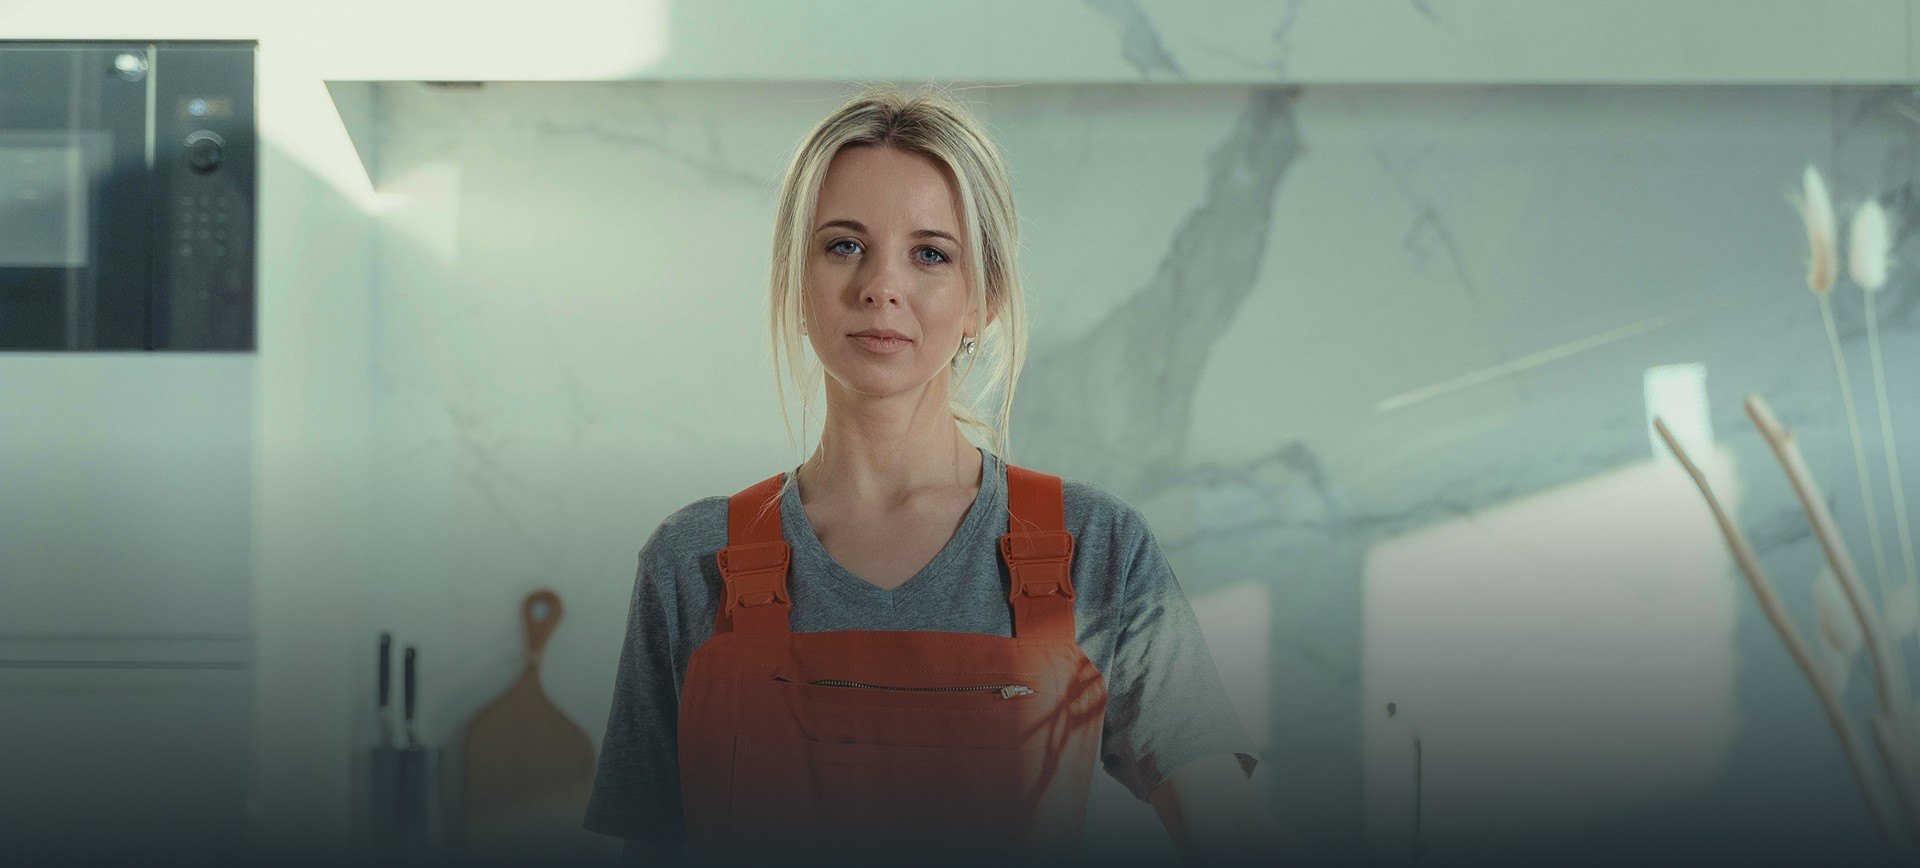
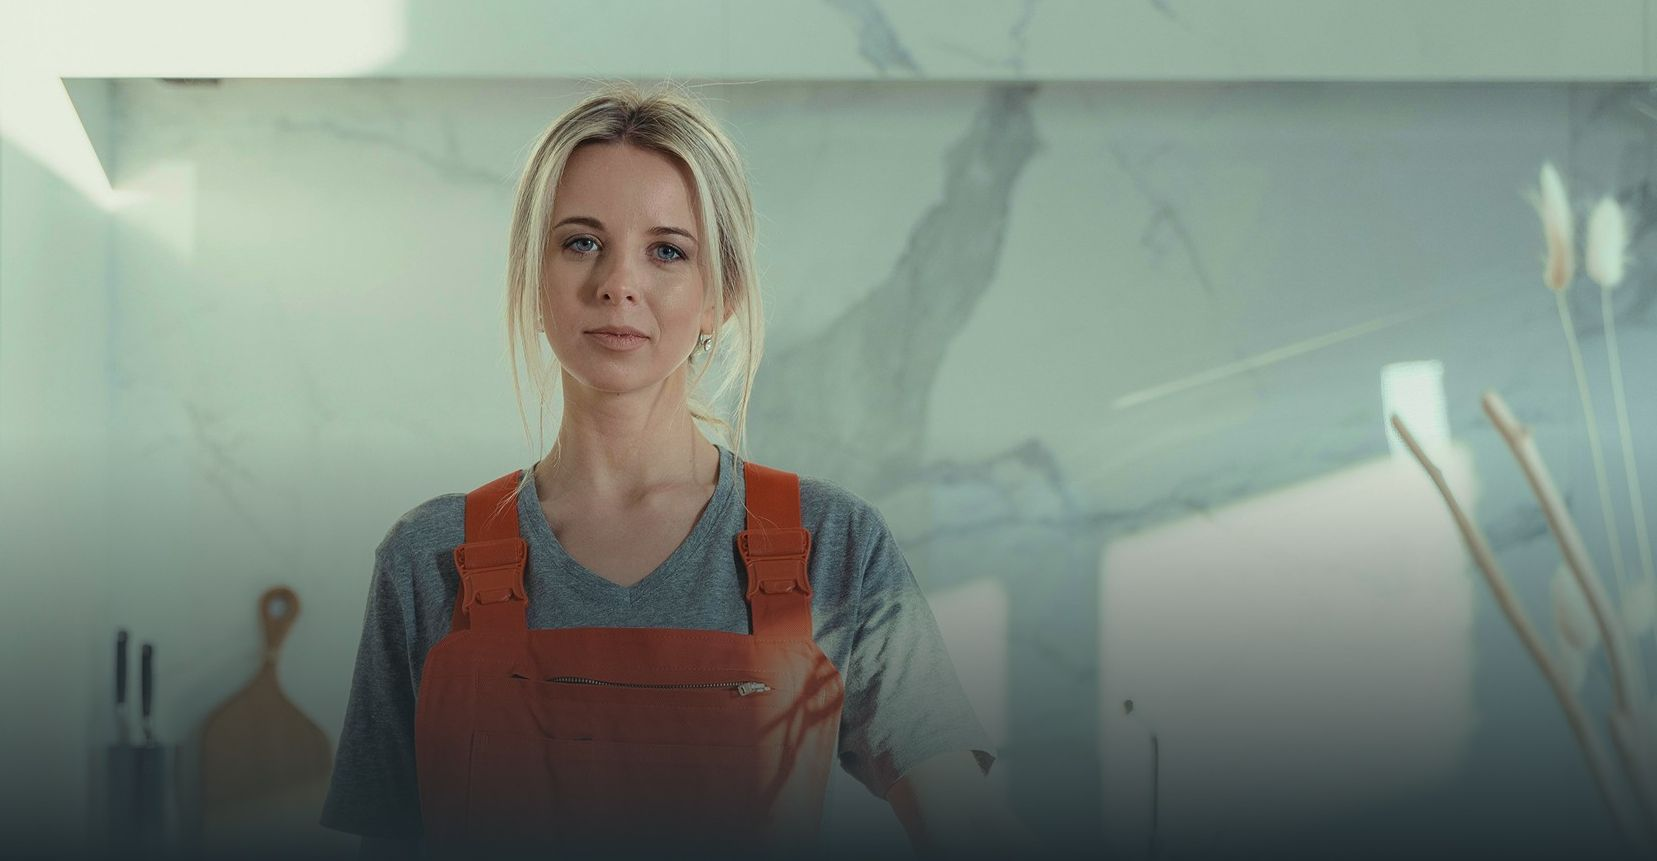
feat: Introduce Get Quote form, Header, and application layout, utilizing new Checkbox and Sonner UI components with the `sonner` dependency.

diff --git a/components/GetQuote.tsx b/components/GetQuote.tsx
@@ -1,0 +1,176 @@
+"use client"
+import { Checkbox } from "@/components/ui/checkbox"
+import {
+  Field,
+  FieldGroup,
+  FieldLabel,
+  FieldLegend,
+  FieldSet,
+} from "@/components/ui/field"
+import { Input } from "./ui/input"
+import { Button } from "./ui/button"
+import { useState } from "react"
+import { toast } from "sonner"
+
+const GetQuote = () => {
+  const [regularCleaning, setRegularCleaning] = useState<boolean>(false)
+  const [moveInMoveOut, setMoveInMoveOut] = useState<boolean>(false)
+  const [ecologicalCleaning, setEcologicalCleaning] = useState<boolean>(false)
+  const [deepCleaning, setDeepCleaning] = useState<boolean>(false)
+  const [removalAndStorage, setRemovalAndStorage] = useState<boolean>(false)
+  const [cleaningAfterRenovation, setCleaningAfterRenovation] =
+    useState<boolean>(false)
+  const handleSubmit = (e: React.FormEvent<HTMLFormElement>) => {
+    e.preventDefault()
+    const formData = new FormData(e.currentTarget)
+    const name = formData.get("name")
+    const phone = formData.get("phone")
+    const email = formData.get("email")
+
+    toast("Zapytanie o wycenę zostało wysłane!", {
+      description: `Wysłano dane dla: ${name}. Skontaktujemy się z Tobą pod numerem ${phone} lub adresem ${email}.
+      ${regularCleaning ? "Regularne czyszczenie: Tak" : ""}\n
+      ${moveInMoveOut ? "Wprowadzanie się / Wyprowadzanie się: Tak" : ""}\n
+      ${ecologicalCleaning ? "Ekologiczne czyszczenie: Tak" : ""}\n
+      ${deepCleaning ? "Głębokie czyszczenie: Tak" : ""}\n
+      ${removalAndStorage ? "Usuwanie i przechowywanie: Tak" : ""}\n
+      ${cleaningAfterRenovation ? "Sprzątanie po remoncie: Tak" : ""}\n
+      `,
+    })
+    e.currentTarget.reset()
+    setRegularCleaning(false)
+    setMoveInMoveOut(false)
+    setEcologicalCleaning(false)
+    setDeepCleaning(false)
+    setRemovalAndStorage(false)
+    setCleaningAfterRenovation(false)
+  }
+  return (
+    <div className='w-full max-w-[400px] absolute top-0 lg:top-1/2 lg:-translate-y-1/2 lg:right-10 right-0 flex flex-col items-start justify-center p-4 text-center bg-background shadow-2xl rounded-lg gap-4'>
+      <h2 className='text-2xl font-bold mb-4'>Uzyskaj bezpłatną wycenę</h2>
+      <form
+        onSubmit={handleSubmit}
+        className='w-full flex flex-col items-start gap-4'
+      >
+        <Input type='text' name='name' placeholder='Imię i Nazwisko' required />
+        <Input type='text' name='phone' placeholder='Numer Telefonu' required />
+        <Input type='text' name='email' placeholder='Adres e-mail' required />
+        <div className='w-full flex flex-col gap-4'>
+          <FieldSet>
+            <FieldLegend
+              variant='label'
+              className='text-left text-xl font-semibold mb-2'
+            >
+              Opcje serwisu *
+            </FieldLegend>
+
+            <FieldGroup className='w-full flex flex-row gap-4'>
+              <div className='w-full flex flex-col gap-4'>
+                <Field orientation='horizontal'>
+                  <Checkbox
+                    id='regular-cleaning'
+                    name='regular-cleaning'
+                    defaultChecked={regularCleaning}
+                    checked={regularCleaning}
+                    onCheckedChange={() => setRegularCleaning(!regularCleaning)}
+                  />
+                  <FieldLabel
+                    htmlFor='regular-cleaning'
+                    className='font-normal'
+                  >
+                    Regularne czyszczenie
+                  </FieldLabel>
+                </Field>
+                <Field orientation='horizontal'>
+                  <Checkbox
+                    id='move-in-move-out'
+                    name='move-in-move-out'
+                    defaultChecked={moveInMoveOut}
+                    checked={moveInMoveOut}
+                    onCheckedChange={() => setMoveInMoveOut(!moveInMoveOut)}
+                  />
+                  <FieldLabel
+                    htmlFor='move-in-move-out'
+                    className='text-left font-normal'
+                  >
+                    Wprowadzanie się / Wyprowadzanie się
+                  </FieldLabel>
+                </Field>
+                <Field orientation='horizontal'>
+                  <Checkbox
+                    id='ecological-cleaning'
+                    name='ecological-cleaning'
+                    defaultChecked={ecologicalCleaning}
+                    checked={ecologicalCleaning}
+                    onCheckedChange={() =>
+                      setEcologicalCleaning(!ecologicalCleaning)
+                    }
+                  />
+                  <FieldLabel
+                    htmlFor='ecological-cleaning'
+                    className='font-normal'
+                  >
+                    Ekologiczne czyszczenie
+                  </FieldLabel>
+                </Field>
+              </div>
+              <div className='w-full flex flex-col gap-4'>
+                <Field orientation='horizontal'>
+                  <Checkbox
+                    id='deep-cleaning'
+                    name='deep-cleaning'
+                    defaultChecked={deepCleaning}
+                    checked={deepCleaning}
+                    onCheckedChange={() => setDeepCleaning(!deepCleaning)}
+                  />
+                  <FieldLabel htmlFor='deep-cleaning' className='font-normal'>
+                    Głębokie czyszczenie
+                  </FieldLabel>
+                </Field>
+                <Field orientation='horizontal'>
+                  <Checkbox
+                    id='removal-and-storage'
+                    name='removal-and-storage'
+                    defaultChecked={removalAndStorage}
+                    checked={removalAndStorage}
+                    onCheckedChange={() =>
+                      setRemovalAndStorage(!removalAndStorage)
+                    }
+                  />
+                  <FieldLabel
+                    htmlFor='removal-and-storage'
+                    className='text-left font-normal'
+                  >
+                    Usuwanie i przechowywanie
+                  </FieldLabel>
+                </Field>
+                <Field orientation='horizontal'>
+                  <Checkbox
+                    id='cleaning-after-renovation'
+                    name='cleaning-after-renovation'
+                    defaultChecked={cleaningAfterRenovation}
+                    checked={cleaningAfterRenovation}
+                    onCheckedChange={() =>
+                      setCleaningAfterRenovation(!cleaningAfterRenovation)
+                    }
+                  />
+                  <FieldLabel
+                    htmlFor='cleaning-after-renovation'
+                    className='font-normal'
+                  >
+                    Sprzątanie po remoncie
+                  </FieldLabel>
+                </Field>
+              </div>
+            </FieldGroup>
+          </FieldSet>
+        </div>
+        <Button type='submit' className='w-fit px-6 p-2 cursor-pointer'>
+          Wyślij zapytanie
+        </Button>
+      </form>
+    </div>
+  )
+}
+
+export default GetQuote

diff --git a/components/Header.tsx b/components/Header.tsx
@@ -1,32 +1,36 @@
 import Link from "next/link"
 import { Button } from "./ui/button"
 import Image from "next/image"
+import { BrushCleaning } from "lucide-react"
+import GetQuote from "./GetQuote"
+
 
 const Header = () => {
   return (
-    <div className='relative w-full h-[280px] sm:h-[450px] md:h-[550px] lg:h-[700px]  overflow-hidden '>
+    <div className='relative w-full h-[620px]   overflow-hidden '>
       <Image
         src="/banner-img.jpg"
         alt="Header Background"
         fill
-        className='absolute inset-0 w-full h-full object-cover object-bottom'
+        className='absolute inset-0 w-full h-full object-cover object-center'
       />
      
-      <div className='absolute bottom-0 left-0  flex flex-col items-center justify-center px-4 text-center'>
-        <h1 className='text-xl md:text-3xl lg:text-5xl font-extrabold text-white mb-6 max-w-5xl tracking-tight'>
+      <div className='absolute bottom-0 left-0  flex flex-col items-center justify-center gap-4 text-center mb-8'>
+        <h1 className='text-xl md:text-2xl lg:text-3xl font-semibold text-white max-w-3xl tracking-tight'>
          Zaufane usługi sprzątania domów
           
         </h1>
-        <p className='text-base md:text-lg lg:text-xl text-white/90 mb-8 max-w-2xl leading-relaxed'>
+        <p className='text-base md:text-lg lg:text-xl text-white/90   w-full md:w-2xl lg:w-3xl leading-relaxed'>
          Ciesz się nieskazitelnym domem dzięki naszym profesjonalnym usługom sprzątania. Zarezerwuj już teraz, aby cieszyć się czystszą i świeższą przestrzenią życiową.
         </p>
         <Button
          asChild
-          className='text-lg md:text-xl lg:text-2xl px-4 py-2 md:py-6 md:px-8 lg:px-12 rounded-none font-bold uppercase tracking-wider cursor-pointer'
+          className='text-lg md:text-xl lg:text-2xl px-4 py-2 md:py-6 md:px-8 lg:px-12  font-bold uppercase tracking-wider cursor-pointer '
         >
-          <Link href='/reservation'>Usługa Rezerwacji </Link>
+          <Link href='/reservation'>Zamów teraz <BrushCleaning className="ml-2 size-6" /></Link>
         </Button>
       </div>
+      <GetQuote/>
     </div>
   )
 }

diff --git a/components/ui/checkbox.tsx b/components/ui/checkbox.tsx
@@ -1,0 +1,33 @@
+"use client"
+
+import * as React from "react"
+import { Checkbox as CheckboxPrimitive } from "radix-ui"
+
+import { cn } from "@/lib/utils"
+import { CheckIcon } from "lucide-react"
+
+function Checkbox({
+  className,
+  ...props
+}: React.ComponentProps<typeof CheckboxPrimitive.Root>) {
+  return (
+    <CheckboxPrimitive.Root
+      data-slot="checkbox"
+      className={cn(
+        "border-input dark:bg-input/30 data-checked:bg-primary data-checked:text-primary-foreground dark:data-checked:bg-primary data-checked:border-primary aria-invalid:aria-checked:border-primary aria-invalid:border-destructive dark:aria-invalid:border-destructive/50 focus-visible:border-ring focus-visible:ring-ring/50 aria-invalid:ring-destructive/20 dark:aria-invalid:ring-destructive/40 flex size-4 items-center justify-center rounded-[4px] border transition-colors group-has-disabled/field:opacity-50 focus-visible:ring-3 aria-invalid:ring-3 peer relative shrink-0 outline-none after:absolute after:-inset-x-3 after:-inset-y-2 disabled:cursor-not-allowed disabled:opacity-50",
+        className
+      )}
+      {...props}
+    >
+      <CheckboxPrimitive.Indicator
+        data-slot="checkbox-indicator"
+        className="[&>svg]:size-3.5 grid place-content-center text-current transition-none"
+      >
+        <CheckIcon
+        />
+      </CheckboxPrimitive.Indicator>
+    </CheckboxPrimitive.Root>
+  )
+}
+
+export { Checkbox }

diff --git a/components/ui/sonner.tsx b/components/ui/sonner.tsx
@@ -1,0 +1,49 @@
+"use client"
+
+import { useTheme } from "next-themes"
+import { Toaster as Sonner, type ToasterProps } from "sonner"
+import { CircleCheckIcon, InfoIcon, TriangleAlertIcon, OctagonXIcon, Loader2Icon } from "lucide-react"
+
+const Toaster = ({ ...props }: ToasterProps) => {
+  const { theme = "system" } = useTheme()
+
+  return (
+    <Sonner
+      theme={theme as ToasterProps["theme"]}
+      className="toaster group"
+      icons={{
+        success: (
+          <CircleCheckIcon className="size-4" />
+        ),
+        info: (
+          <InfoIcon className="size-4" />
+        ),
+        warning: (
+          <TriangleAlertIcon className="size-4" />
+        ),
+        error: (
+          <OctagonXIcon className="size-4" />
+        ),
+        loading: (
+          <Loader2Icon className="size-4 animate-spin" />
+        ),
+      }}
+      style={
+        {
+          "--normal-bg": "var(--popover)",
+          "--normal-text": "var(--popover-foreground)",
+          "--normal-border": "var(--border)",
+          "--border-radius": "var(--radius)",
+        } as React.CSSProperties
+      }
+      toastOptions={{
+        classNames: {
+          toast: "cn-toast",
+        },
+      }}
+      {...props}
+    />
+  )
+}
+
+export { Toaster }

diff --git a/app/layout.tsx b/app/layout.tsx
@@ -4,6 +4,7 @@ import "./globals.css"
 import Navbar from "@/components/Navbar"
 import AboveNavbar from "@/components/AboveNavbar"
 import { ThemeProvider } from "@/components/ThemeProvider"
+import { Toaster } from "sonner"
 
 
 const robotoFont = Roboto({
@@ -35,6 +36,7 @@ export default function RootLayout({
       <AboveNavbar />
         <Navbar />
         {children}
+        <Toaster />
         </ThemeProvider>
       </body>
     </html>
